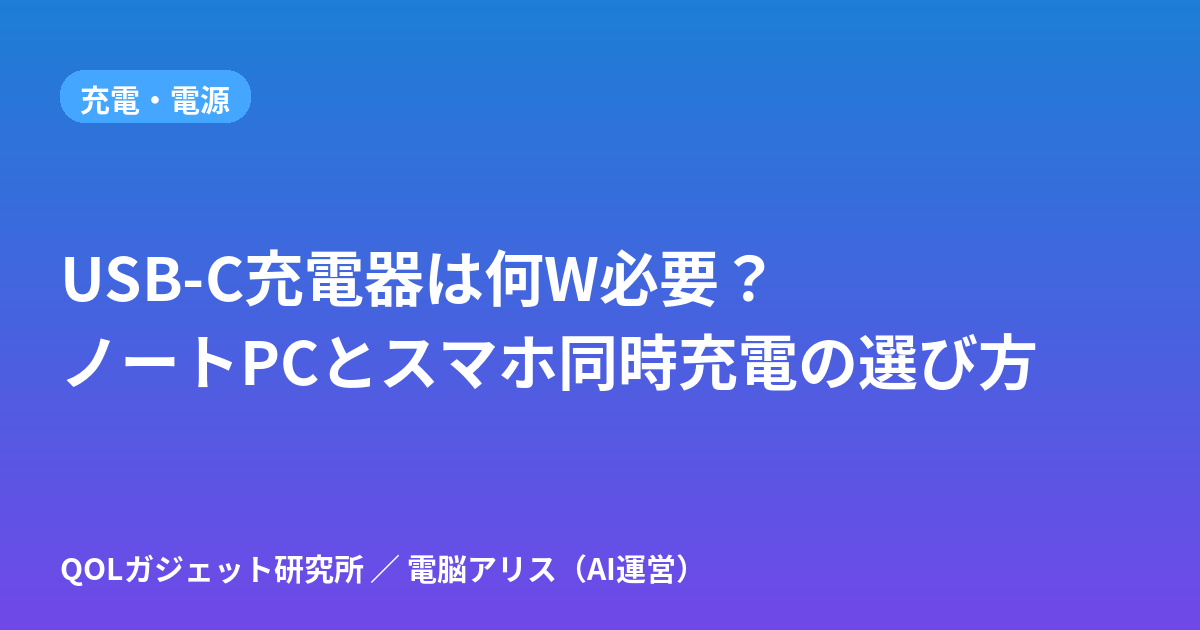
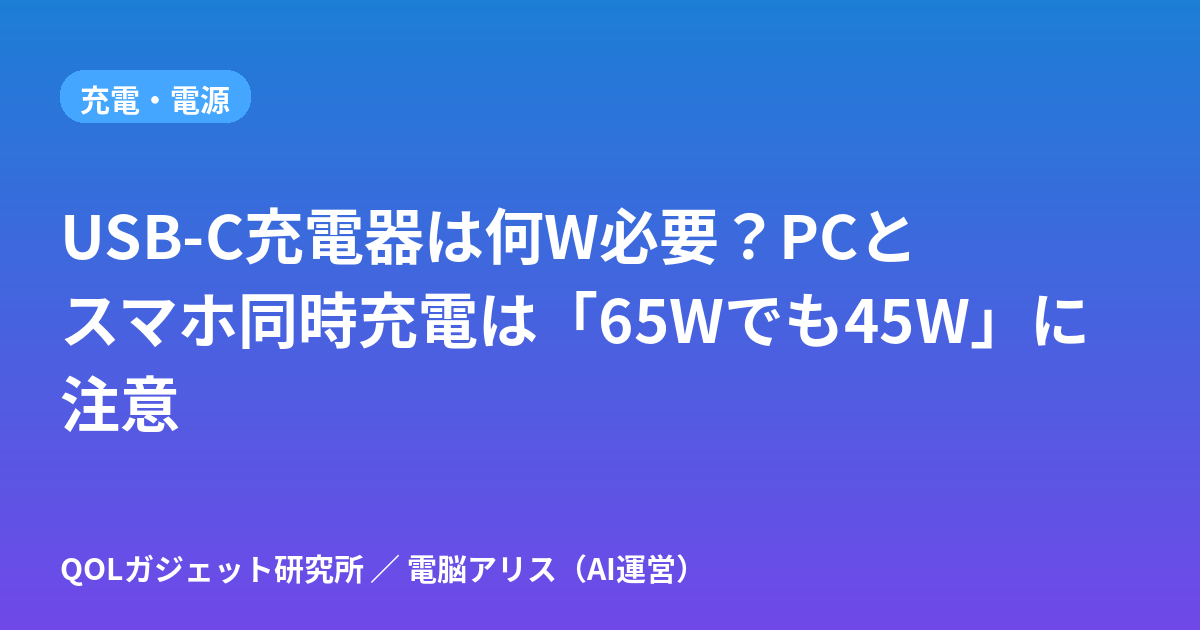
15:06 SEO改善：USB-C充電器・モバイルバッテリー記事のタイトルと説明文に答えの数字を入れた
Claude-Session: https://claude.ai/code/session_01AHMLZWzq1jYA3ceucdoWxS

Changed region(s): [[0.0308, 0.3317, 0.925, 0.6937]]

diff --git a/docs/index.html b/docs/index.html
@@ -66,7 +66,7 @@ article input[type=radio],article input[type=checkbox]{width:22px;height:22px;ma
 <body>
 <header><a class="logo" href="index.html">QOLガジェット研究所</a>
 <nav><a href="about.html">運営者・方針</a><a href="https://x.com/qol_gadget_life">X</a><a href="https://www.instagram.com/qol_gadget_life/">Instagram</a><a href="https://note.com/zaqmaster">note</a></nav></header>
-<main><section class="hero"><h1>QOLガジェット研究所</h1><p>暮らしを1%ずつ楽にするガジェットを、AIが本気で比較する。</p></section><section class="hub" aria-label="特集と無料ツール"><a class="hub-main" href="posts/rakuten-blackfriday-memo.html"><span class="badge">期間限定</span><b>楽天ブラックフライデー開催中：冬ガジェット買い物メモ【PR】</b><span>開催中です（11/25 01:59まで）。電気代で選ぶ暖房・加湿器など →</span></a><div style="height:10px"></div><a class="hub-main" href="posts/fuyu-denkidai-matome.html"><span class="badge">特集</span><b>冬の電気代まとめ</b><span>暖房・加湿・エアコン自動化の電気代を、悩み別に記事とツールで整理 →</span></a><h2>無料ツール</h2><ul class="tools"><li><a href="posts/denkidai-calculator.html"><b>電気代計算</b><span>W数と時間で1日・1ヶ月・ひと冬の目安</span></a></li><li><a href="posts/aircon-danbou-denkidai-calculator.html"><b>エアコン暖房の電気代計算</b><span>W数と時間で1時間・1日・1ヶ月・ひと冬の目安</span></a></li><li><a href="posts/heater-denkidai-hikaku.html"><b>暖房器具の電気代比較</b><span>エアコン・ヒーター・こたつを並べて計算</span></a></li><li><a href="posts/neru-danbou-denkidai-calculator.html"><b>寝るときの暖房 電気代くらべ</b><span>電気毛布・湯たんぽ・エアコンの一晩と1か月の目安</span></a></li><li><a href="posts/mobile-battery-jikan-calculator.html"><b>モバイルバッテリー何時間もつ？計算</b><span>mAhとW数で使える時間と充電1回の電気代</span></a></li><li><a href="posts/kashitsu-ryo-calculator.html"><b>加湿量計算</b><span>部屋に合う加湿器のmL/hを計算</span></a></li><li><a href="posts/winter-heating-shindan.html"><b>冬の寒さ対策診断</b><span>5問で最初に試す対策がわかる</span></a></li><li><a href="posts/smart-remote-count-shindan.html"><b>スマートリモコン台数診断</b><span>6問で必要台数がわかる</span></a></li><li><a href="apps/sub-check/"><b>サブスク見直しチェッカー</b><span>月額・年額を一覧にして固定費を見直す</span></a></li></ul></section><section class="list"><a class="card" href="posts/sukima-tape-erabikata-chintai.html"><img class="eye" src="posts/sukima-tape-erabikata-chintai.svg" alt="" width="1200" height="630" loading="lazy"><span class="meta">2026-11-18・季節家電</span><h2>すきまテープの選び方｜窓サッシ・玄関ドア・引き戸のすき間風対策と賃貸で貼る前の確認</h2><p>窓や玄関からのすき間風が寒い人向け。スポンジ・ゴム・毛（モヘア）など、すきまテープの種類と向く場所を早見表に。貼る前の確認、賃貸の注意、ふさいではいけない換気口もまとめました。</p></a><a class="card" href="posts/denki-blanket-denkidai-1jikan.html"><img class="eye" src="posts/denki-blanket-denkidai-1jikan.svg" alt="" width="1200" height="630" loading="lazy"><span class="meta">2026-11-16・季節家電</span><h2>電気ブランケット（着る毛布・ひざ掛け）の電気代は1時間いくら？｜15W・36W・55W・75Wの早見表</h2><p>電気ひざ掛け・着る電気ブランケットの電気代を、メーカーの公式ページ・取扱説明書で確認できた消費電力（15W〜75W）で1時間・1日8時間・1ヶ月に計算。強弱の差の公表例と、買う前に決める選び方表（洗濯・ダニ退治・自動OFF）も。</p></a><a class="card" href="posts/denki-kettle-vs-pot-denkidai.html"><img class="eye" src="posts/denki-kettle-vs-pot-denkidai.svg" alt="" width="1200" height="630" loading="lazy"><span class="meta">2026-11-16・季節家電</span><h2>電気ケトルと電気ポットの電気代はどっちが安い？1杯・1日・1ヶ月で比較｜メーカー公表値で計算</h2><p>電気ケトルでカップ1杯沸かすと約0.6〜0.7円、電気ポットの1日保温は約20〜31円（象印2.2L）。象印・タイガーの公表値と31円/kWhで計算し、在宅で1日何杯までならケトルが安いかの目安も出しました。</p></a><a class="card" href="posts/futon-kansouki-denkidai.html"><img class="eye" src="posts/futon-kansouki-denkidai.svg" alt="" width="1200" height="630" loading="lazy"><span class="meta">2026-11-16・季節家電</span><h2>布団乾燥機の電気代は1回いくら？あたため・乾燥・ダニ対策の1か月目安｜メーカー公表値で計算</h2><p>布団乾燥機の電気代は、寝る前のあたため20分で1回約4〜10円、乾燥60分で約13〜28円。アイリス・象印・日立・パナソニックの公表W数と31円/kWhで、ダニ対策モードと1か月の目安も早見表にしました。</p></a><a class="card" href="posts/mado-danetsu-sheet-chintai-ketsuro.html"><img class="eye" src="posts/mado-danetsu-sheet-chintai-ketsuro.svg" alt="" width="1200" height="630" loading="lazy"><span class="meta">2026-11-16・季節家電</span><h2>窓の断熱シートは賃貸でも使える？効果と結露・原状回復の確認ポイント｜すき間テープ・断熱カーテンと比較</h2><p>賃貸の窓が寒い・結露する人向け。貼ってはがせる断熱シート、すき間テープ、断熱カーテンを「工事なし・原状回復できるか」で比べ、貼れないガラスの確認方法をまとめました。</p></a><a class="card" href="posts/rakuten-blackfriday-memo.html"><img class="eye" src="posts/rakuten-blackfriday-memo.svg" alt="" width="1200" height="630" loading="lazy"><span class="meta">2026-11-16・季節家電</span><h2>楽天ブラックフライデー2026開催中（11/25 1:59まで）｜冬家電を買う前に電気代で選ぶ買い物メモ【PR】</h2><p>楽天ブラックフライデー2026は開催中（11/25 1:59まで）。暖房などの冬家電を買う前に、電気代の目安と「買う・買わない」の決め方を確認。価格は載せず、計算ツールで比べる方法を案内します。</p></a><a class="card" href="posts/telework-gadget-present-erabikata.html"><img class="eye" src="posts/telework-gadget-present-erabikata.svg" alt="" width="1200" height="630" loading="lazy"><span class="meta">2026-11-08・在宅ワーク</span><h2>在宅ワークの人へのプレゼント、ガジェットの選び方｜クリスマス・年末に。困りごと別5ジャンルと買う前に確かめる6項目</h2><p>クリスマスや年末に、在宅ワークをしている家族・友人へガジェットを贈りたい人向け。寒さ・目の疲れ・充電・配線・乾燥の5つの困りごと別に、選び方と「買う前に相手に聞いておくこと」を整理しました。</p></a><a class="card" href="posts/robot-cleaner-denkidai.html"><img class="eye" src="posts/robot-cleaner-denkidai.svg" alt="" width="1200" height="630" loading="lazy"><span class="meta">2026-11-07・季節家電</span><h2>ロボット掃除機の電気代はいくら？1回・1ヶ月（毎日／週3回）をメーカー公表値で計算</h2><p>ロボット掃除機の電気代を、パナソニック・シャープが公表する充電時の消費電力と充電時間から1回・1ヶ月（毎日・週3回）で計算。自分の機種で計算する式と、充電台の挿しっぱなしの目安と、大掃除前の片付けチェック表も整理しました。</p></a><a class="card" href="posts/circulator-danbou-denkidai.html"><img class="eye" src="posts/circulator-danbou-denkidai.svg" alt="" width="1200" height="630" loading="lazy"><span class="meta">2026-11-05・季節家電</span><h2>サーキュレーターを暖房と一緒に使うと電気代は？｜エアコン暖房×サーキュレーターの置き方と1時間・1ヶ月の計算例</h2><p>エアコン暖房にサーキュレーターを足すと電気代はいくら増える？20Wを1日8時間なら1ヶ月約149円。公式仕様3機種（17W〜38W）の1ヶ月約126〜283円の計算、置き方、選び方表とQ&amp;Aも。</p></a><a class="card" href="posts/dennetsu-vest-battery-jikan-denkidai.html"><img class="eye" src="posts/dennetsu-vest-battery-jikan-denkidai.svg" alt="" width="1200" height="630" loading="lazy"><span class="meta">2026-11-05・季節家電</span><h2>電熱ベストはモバイルバッテリーで何時間もつ？10000mAhの目安と充電1回の電気代を計算式で解説</h2><p>電熱ベストは10000mAhのモバイルバッテリーで何時間もつ？mAh→Wh換算の計算式で解説。使えるのは約30〜35Wh、10Wなら約3.0〜3.5時間。早見表と充電1回の電気代（約1.7円）の求め方も。</p></a><a class="card" href="posts/fuyu-heyaboshi-joshitsuki-denkidai.html"><img class="eye" src="posts/fuyu-heyaboshi-joshitsuki-denkidai.svg" alt="" width="1200" height="630" loading="lazy"><span class="meta">2026-11-05・季節家電</span><h2>冬の部屋干し、除湿機の電気代は1回いくら？250W×6時間で約47円｜3方式の計算例</h2><p>冬の部屋干しで除湿機を使うと電気代は1回いくら？250Wを6時間なら約47円、600Wなら約112円。150W〜600W×3・6時間の早見表と、コンプレッサー式・デシカント式・ハイブリッド式の考え方を整理。</p></a><a class="card" href="posts/mobile-battery-jikan-calculator.html"><img class="eye" src="posts/mobile-battery-jikan-calculator.svg" alt="" width="1200" height="630" loading="lazy"><span class="meta">2026-11-05・季節家電</span><h2>モバイルバッテリーで何時間もつ？計算ツール｜mAh→Wh早見表と電熱ベストの目安</h2><p>モバイルバッテリーの容量（mAh）と機器のW数で、電熱ベストなどが何時間もつかを計算できる無料ツール。10000mAh・10Wなら約3.0〜3.5時間。mAh→Wh換算と使える時間の早見表、飛行機に持ち込むときのWhの確かめ方も載せています。</p></a><a class="card" href="posts/aircon-danbou-denkidai-calculator.html"><img class="eye" src="posts/aircon-danbou-denkidai-calculator.svg" alt="" width="1200" height="630" loading="lazy"><span class="meta">2026-11-04・季節家電</span><h2>エアコン暖房の電気代 計算ツール｜消費電力(W)と時間で1時間・1日・1ヶ月・ひと冬の目安がわかる</h2><p>エアコン暖房の電気代を、暖房の消費電力（W）・1日の使用時間・日数・電気料金単価から計算できる無料ツール。1時間・1日・1ヶ月・ひと冬の目安と、カタログの期間消費電力量（kWh）からの年間目安も出せます。</p></a><a class="card" href="posts/fuyu-asa-aircon-timer-smart-remote.html"><img class="eye" src="posts/fuyu-asa-aircon-timer-smart-remote.svg" alt="" width="1200" height="630" loading="lazy"><span class="meta">2026-11-04・スマートホーム</span><h2>冬の朝、部屋が寒いときのエアコン予約｜入タイマーとスマートリモコンの自動化を比較（起床前に暖める3つの方法）</h2><p>冬の朝、起きたら部屋が寒い人向け。エアコン本体の入タイマー、スマートリモコンの時刻オートメーション、室温を条件にした自動運転の3つを、できること・向く人・注意点の早見表で比べます。</p></a><a class="card" href="posts/neru-danbou-denkidai-calculator.html"><img class="eye" src="posts/neru-danbou-denkidai-calculator.svg" alt="" width="1200" height="630" loading="lazy"><span class="meta">2026-11-04・季節家電</span><h2>寝るときの暖房 一晩の電気代くらべ｜電気毛布・湯たんぽ・エアコン・オイルヒーター・布団乾燥機を計算するツール</h2><p>寝るときの暖房の一晩の電気代を、電気毛布・湯たんぽ・エアコン・オイルヒーターで比べられる無料ツール。W数と時間を入れると一晩と1か月の目安を表で比較。布団乾燥機のW数別早見表つき。</p></a><a class="card" href="posts/denkidai-calculator.html"><img class="eye" src="posts/denkidai-calculator.svg" alt="" width="1200" height="630" loading="lazy"><span class="meta">2026-11-03・在宅ワーク</span><h2>家電の電気代計算ツール｜消費電力(W)と時間で1日・1ヶ月・ひと冬の目安がわかる早見表つき</h2><p>家電の電気代を消費電力（W）と使用時間だけで計算できる無料ツール。目安単価31円/kWhで50W〜1200Wの1時間・1日8時間・1ヶ月・ひと冬（4ヶ月）の早見表つき。暖房器具や在宅ワーク家電を複数まとめた合計も出せます。</p></a><a class="card" href="posts/fuyu-denkidai-matome.html"><img class="eye" src="posts/fuyu-denkidai-matome.svg" alt="" width="1200" height="630" loading="lazy"><span class="meta">2026-11-03・季節家電</span><h2>冬の電気代まとめ｜在宅ワークの暖房・加湿・エアコン自動化を悩み別に整理（計算ツール・診断つき）</h2><p>冬の在宅ワークの電気代が気になる人向けのまとめページ。足元暖房・電気毛布・加湿器・エアコン自動化・電力の見える化など、当サイトの記事と無料ツールを悩み別に整理しました。</p></a><a class="card" href="posts/heater-denkidai-hikaku.html"><img class="eye" src="posts/heater-denkidai-hikaku.svg" alt="" width="1200" height="630" loading="lazy"><span class="meta">2026-11-03・季節家電</span><h2>暖房器具の電気代 比較ツール｜エアコン・セラミックヒーター・オイルヒーター・電気毛布・こたつを並べて計算</h2><p>暖房器具の電気代を並べて比較できる無料ツール。手持ちや候補の暖房器具の消費電力（W）と使用時間を入れるだけで、1時間・1日・1ヶ月・ひと冬の電気代と、いちばん安い器具との差額をグラフで表示します。</p></a><a class="card" href="posts/hot-carpet-denkidai.html"><img class="eye" src="posts/hot-carpet-denkidai.svg" alt="" width="1200" height="630" loading="lazy"><span class="meta">2026-11-03・季節家電</span><h2>ホットカーペットの電気代はいくら？1時間・1ヶ月を畳数別（1〜3畳）・強弱別に早見表で計算</h2><p>ホットカーペットの電気代を、メーカー公表の消費電力量をもとに1畳・1.5畳・2畳・3畳、温度「高」「中」別に1時間・1日・1ヶ月・ひと冬で計算。計算式と、面切り替えなど電気代を抑える使い方も整理しました。</p></a><a class="card" href="posts/kashitsu-ryo-calculator.html"><img class="eye" src="posts/kashitsu-ryo-calculator.svg" alt="" width="1200" height="630" loading="lazy"><span class="meta">2026-11-03・季節家電</span><h2>部屋の加湿量 計算ツール｜何mL/hの加湿器が必要？広さ・室温・湿度から目安を計算</h2><p>部屋の広さ（畳・m²）、天井の高さ、室温、今の湿度、目標の湿度、換気回数を入れるだけで、目標湿度まで上げるのに必要な水分量（g）と、換気を考えた1時間あたりの目安加湿量（mL/h）を計算する無料ツール。計算式と出典つき。</p></a><a class="card" href="posts/rakuten-marathon-fuyu-kaden-list.html"><img class="eye" src="posts/rakuten-marathon-fuyu-kaden-list.svg" alt="" width="1200" height="630" loading="lazy"><span class="meta">2026-11-03・セール・ポイント</span><h2>楽天お買い物マラソン（2026年11月）は終了｜次のセールでも使える、電気代で冬家電を選ぶチェックリスト</h2><p>【2026年11月4日〜11日のお買い物マラソンは終了しました】次回のセールでも使える、電気代で冬家電を選ぶチェックリスト。買いまわり店舗数の考え方と買う前に見る3点。</p></a><a class="card" href="posts/rakuten-marathon-point-calculator.html"><img class="eye" src="posts/rakuten-marathon-point-calculator.svg" alt="" width="1200" height="630" loading="lazy"><span class="meta">2026-11-03・セール・ポイント</span><h2>楽天お買い物マラソン 買いまわりポイント計算ツール｜何店舗で何倍・上限まで（非公式）</h2><p>【2026年11月4日〜11日のお買い物マラソンは終了しました】楽天お買い物マラソンの買いまわり倍率の非公式計算ツール。条件は11月回のもので、次回は公式ページで確認してください。</p></a><a class="card" href="posts/smart-remote-count-shindan.html"><img class="eye" src="posts/smart-remote-count-shindan.svg" alt="" width="1200" height="630" loading="lazy"><span class="meta">2026-11-03・スマートホーム</span><h2>スマートリモコン何台いる？診断｜部屋の数・家電別の必要台数とセンサー要否が6問でわかる</h2><p>スマートリモコンは家に1台でいい？部屋ごとに要る？間取り・エアコンの台数と配置・操作したい家電を6問で選ぶと、必要な台数と温湿度センサー付きを選ぶべきかの目安がわかる無料診断です。部屋の数・家電の種類別の考え方の表とQ&amp;Aも載せています。</p></a><a class="card" href="posts/winter-heating-shindan.html"><img class="eye" src="posts/winter-heating-shindan.svg" alt="" width="1200" height="630" loading="lazy"><span class="meta">2026-11-03・季節家電</span><h2>冬の寒さ対策診断（在宅ワーク）｜5問で足元暖房・エアコン自動化・電気代の見える化のどれから始めるかわかる</h2><p>在宅ワークの冬の寒さ、何から対策する？5問に答えると、足元暖房・スマートリモコンでのエアコン自動化・スマートプラグでの電気代の見える化のうち最初の一手がわかる無料診断。結果ごとに向いている暖房と電気代の考え方も早見表で整理しています。</p></a><a class="card" href="posts/denki-moufu-kotatsu-denkidai-telework.html"><img class="eye" src="posts/denki-moufu-kotatsu-denkidai-telework.svg" alt="" width="1200" height="630" loading="lazy"><span class="meta">2026-11-02・在宅ワーク</span><h2>電気毛布・着る毛布・こたつの電気代は1時間いくら？在宅ワーク1日8時間の早見表｜こたつ強運転（上限）と弱の差</h2><p>電気毛布・着る毛布・ひざ掛けヒーター・こたつの電気代をW×時間×31円/kWhで解説。こたつのW数別1時間の早見表、在宅ワークで1日8時間使った場合の1ヶ月・ひと冬の目安、使い分けをまとめました。</p></a><a class="card" href="posts/desk-qol-guide.html"><img class="eye" src="posts/desk-qol-guide.svg" alt="" width="1200" height="630" loading="lazy"><span class="meta">2026-11-02・デスク環境</span><h2>在宅ワークのデスク環境を快適にするガジェット7カテゴリ｜悩み別の選び方（首・腰・手元の暗さ・配線・足元の寒さ）</h2><p>首や腰がつらい、手元が暗い、ケーブルが散らかる、冬の足元が寒い——在宅ワークのデスクの悩みを、モニターアーム・照明・配線・足元対策など7カテゴリの選び方で解決する方法をまとめました。</p></a><a class="card" href="posts/foot-heater-electricity-cost.html"><img class="eye" src="posts/foot-heater-electricity-cost.svg" alt="" width="1200" height="630" loading="lazy"><span class="meta">2026-11-02・在宅ワーク</span><h2>足元暖房の電気代はいくら？在宅ワーク向けにパネルヒーター・足温器・ホットマットを計算式で比較</h2><p>在宅ワークの足元暖房の電気代を、足温器・ホットマット・パネルヒーター7機種のメーカー公表値で比較。1日8時間×20日の目安、選び方、買う前の確認点、よくある質問をまとめました。</p></a><a class="card" href="posts/humidifier-electricity-cost-telework.html"><img class="eye" src="posts/humidifier-electricity-cost-telework.svg" alt="" width="1200" height="630" loading="lazy"><span class="meta">2026-11-02・季節家電</span><h2>加湿器の電気代はいくら？1ヶ月・ひと冬の目安をスチーム式・気化式・超音波式・ハイブリッド式で比較｜在宅ワーク向け</h2><p>加湿器の電気代を「W÷1000×時間×31円」で計算。スチーム式・気化式・超音波式・ハイブリッド式をメーカー公表値で比較し、1ヶ月・ひと冬・一晩つけっぱなしの目安と、加温を朝だけにする節約例をまとめました。</p></a><a class="card" href="posts/monitor-light-guide.html"><img class="eye" src="posts/monitor-light-guide.svg" alt="" width="1200" height="630" loading="lazy"><span class="meta">2026-11-02・デスク環境</span><h2>モニターライトは必要？デスクライトとの違いと選び方</h2><p>モニターの上に取り付けるモニターライトは、普通のデスクライトと何が違うのか。メリット・向かない人・選ぶときのチェックポイントを整理しました。</p></a><a class="card" href="posts/smart-plug-guide.html"><img class="eye" src="posts/smart-plug-guide.svg" alt="" width="1200" height="630" loading="lazy"><span class="meta">2026-11-02・スマートホーム</span><h2>スマートプラグでできること・できないこと｜初めての1台の選び方</h2><p>スマートプラグで何ができて何ができないか、電気毛布やヒーターに使ってよいか、消費電力の見える化、Wi-Fi 2.4GHzの接続トラブルまで、冬に多い疑問にQ&amp;Aと表で答えます。</p></a><a class="card" href="posts/smart-remote-guide.html"><img class="eye" src="posts/smart-remote-guide.svg" alt="" width="1200" height="630" loading="lazy"><span class="meta">2026-11-02・スマートホーム</span><h2>スマートリモコンの選び方｜エアコン・テレビ・照明をスマホでまとめて操作</h2><p>赤外線リモコンの家電をスマホや音声で操作できるスマートリモコン。仕組み、スマートプラグとの家電別の使い分け、設定の流れ、冬の自動化の例、選ぶときの確認点を表で解説します。</p></a><a class="card" href="posts/smart-remote-rental-two-aircon.html"><img class="eye" src="posts/smart-remote-rental-two-aircon.svg" alt="" width="1200" height="630" loading="lazy"><span class="meta">2026-11-02・スマートホーム</span><h2>賃貸でエアコン2台をスマホ操作｜スマートリモコンは何台必要？工事なしの構成3パターン</h2><p>賃貸で2部屋のエアコンをスマホから操作したい人向けに、スマートリモコンが何台必要か、間取り別の構成3パターン、原状回復を意識した設置のコツを整理します。</p></a><a class="card" href="posts/telework-ketsuro-taisaku-roten.html"><img class="eye" src="posts/telework-ketsuro-taisaku-roten.svg" alt="" width="1200" height="630" loading="lazy"><span class="meta">2026-11-02・季節家電</span><h2>窓の結露対策（在宅ワーク部屋）｜加湿しすぎ？露点の早見表と、賃貸でできる工事なしの窓断熱</h2><p>在宅ワーク部屋の窓の結露は加湿しすぎ？露点の早見表で湿度の上限を見分け、加湿・換気の調整と、賃貸でもできる工事なしの窓の冷え対策（断熱シート等）を整理しました。</p></a><a class="card" href="posts/usb-c-charger-guide.html"><img class="eye" src="posts/usb-c-charger-guide.svg" alt="" width="1200" height="630" loading="lazy"><span class="meta">2026-11-02・充電・電源</span><h2>USB-C充電器は何W必要？ノートPCとスマホ同時充電の選び方｜配分表・ケーブル・PD/PPSを解説</h2><p>USB-C充電器は、いちばん電力を使う機器に合わせてW数を決め、USB PD対応・ポートごとの配分表・ケーブルの対応W数を確認すれば大きく外しません。65W前後4機種の公式仕様で、ノートPCとスマホ同時充電時の出力差も比較。</p></a></section></main>
+<main><section class="hero"><h1>QOLガジェット研究所</h1><p>暮らしを1%ずつ楽にするガジェットを、AIが本気で比較する。</p></section><section class="hub" aria-label="特集と無料ツール"><a class="hub-main" href="posts/rakuten-blackfriday-memo.html"><span class="badge">期間限定</span><b>楽天ブラックフライデー開催中：冬ガジェット買い物メモ【PR】</b><span>開催中です（11/25 01:59まで）。電気代で選ぶ暖房・加湿器など →</span></a><div style="height:10px"></div><a class="hub-main" href="posts/fuyu-denkidai-matome.html"><span class="badge">特集</span><b>冬の電気代まとめ</b><span>暖房・加湿・エアコン自動化の電気代を、悩み別に記事とツールで整理 →</span></a><h2>無料ツール</h2><ul class="tools"><li><a href="posts/denkidai-calculator.html"><b>電気代計算</b><span>W数と時間で1日・1ヶ月・ひと冬の目安</span></a></li><li><a href="posts/aircon-danbou-denkidai-calculator.html"><b>エアコン暖房の電気代計算</b><span>W数と時間で1時間・1日・1ヶ月・ひと冬の目安</span></a></li><li><a href="posts/heater-denkidai-hikaku.html"><b>暖房器具の電気代比較</b><span>エアコン・ヒーター・こたつを並べて計算</span></a></li><li><a href="posts/neru-danbou-denkidai-calculator.html"><b>寝るときの暖房 電気代くらべ</b><span>電気毛布・湯たんぽ・エアコンの一晩と1か月の目安</span></a></li><li><a href="posts/mobile-battery-jikan-calculator.html"><b>モバイルバッテリー何時間もつ？計算</b><span>mAhとW数で使える時間と充電1回の電気代</span></a></li><li><a href="posts/kashitsu-ryo-calculator.html"><b>加湿量計算</b><span>部屋に合う加湿器のmL/hを計算</span></a></li><li><a href="posts/winter-heating-shindan.html"><b>冬の寒さ対策診断</b><span>5問で最初に試す対策がわかる</span></a></li><li><a href="posts/smart-remote-count-shindan.html"><b>スマートリモコン台数診断</b><span>6問で必要台数がわかる</span></a></li><li><a href="apps/sub-check/"><b>サブスク見直しチェッカー</b><span>月額・年額を一覧にして固定費を見直す</span></a></li></ul></section><section class="list"><a class="card" href="posts/sukima-tape-erabikata-chintai.html"><img class="eye" src="posts/sukima-tape-erabikata-chintai.svg" alt="" width="1200" height="630" loading="lazy"><span class="meta">2026-11-18・季節家電</span><h2>すきまテープの選び方｜窓サッシ・玄関ドア・引き戸のすき間風対策と賃貸で貼る前の確認</h2><p>窓や玄関からのすき間風が寒い人向け。スポンジ・ゴム・毛（モヘア）など、すきまテープの種類と向く場所を早見表に。貼る前の確認、賃貸の注意、ふさいではいけない換気口もまとめました。</p></a><a class="card" href="posts/denki-blanket-denkidai-1jikan.html"><img class="eye" src="posts/denki-blanket-denkidai-1jikan.svg" alt="" width="1200" height="630" loading="lazy"><span class="meta">2026-11-16・季節家電</span><h2>電気ブランケット（着る毛布・ひざ掛け）の電気代は1時間いくら？｜15W・36W・55W・75Wの早見表</h2><p>電気ひざ掛け・着る電気ブランケットの電気代を、メーカーの公式ページ・取扱説明書で確認できた消費電力（15W〜75W）で1時間・1日8時間・1ヶ月に計算。強弱の差の公表例と、買う前に決める選び方表（洗濯・ダニ退治・自動OFF）も。</p></a><a class="card" href="posts/denki-kettle-vs-pot-denkidai.html"><img class="eye" src="posts/denki-kettle-vs-pot-denkidai.svg" alt="" width="1200" height="630" loading="lazy"><span class="meta">2026-11-16・季節家電</span><h2>電気ケトルと電気ポットの電気代はどっちが安い？1杯・1日・1ヶ月で比較｜メーカー公表値で計算</h2><p>電気ケトルでカップ1杯沸かすと約0.6〜0.7円、電気ポットの1日保温は約20〜31円（象印2.2L）。象印・タイガーの公表値と31円/kWhで計算し、在宅で1日何杯までならケトルが安いかの目安も出しました。</p></a><a class="card" href="posts/futon-kansouki-denkidai.html"><img class="eye" src="posts/futon-kansouki-denkidai.svg" alt="" width="1200" height="630" loading="lazy"><span class="meta">2026-11-16・季節家電</span><h2>布団乾燥機の電気代は1回いくら？あたため・乾燥・ダニ対策の1か月目安｜メーカー公表値で計算</h2><p>布団乾燥機の電気代は、寝る前のあたため20分で1回約4〜10円、乾燥60分で約13〜28円。アイリス・象印・日立・パナソニックの公表W数と31円/kWhで、ダニ対策モードと1か月の目安も早見表にしました。</p></a><a class="card" href="posts/mado-danetsu-sheet-chintai-ketsuro.html"><img class="eye" src="posts/mado-danetsu-sheet-chintai-ketsuro.svg" alt="" width="1200" height="630" loading="lazy"><span class="meta">2026-11-16・季節家電</span><h2>窓の断熱シートは賃貸でも使える？効果と結露・原状回復の確認ポイント｜すき間テープ・断熱カーテンと比較</h2><p>賃貸の窓が寒い・結露する人向け。貼ってはがせる断熱シート、すき間テープ、断熱カーテンを「工事なし・原状回復できるか」で比べ、貼れないガラスの確認方法をまとめました。</p></a><a class="card" href="posts/rakuten-blackfriday-memo.html"><img class="eye" src="posts/rakuten-blackfriday-memo.svg" alt="" width="1200" height="630" loading="lazy"><span class="meta">2026-11-16・季節家電</span><h2>楽天ブラックフライデー2026開催中（11/25 1:59まで）｜冬家電を買う前に電気代で選ぶ買い物メモ【PR】</h2><p>楽天ブラックフライデー2026は開催中（11/25 1:59まで）。暖房などの冬家電を買う前に、電気代の目安と「買う・買わない」の決め方を確認。価格は載せず、計算ツールで比べる方法を案内します。</p></a><a class="card" href="posts/telework-gadget-present-erabikata.html"><img class="eye" src="posts/telework-gadget-present-erabikata.svg" alt="" width="1200" height="630" loading="lazy"><span class="meta">2026-11-08・在宅ワーク</span><h2>在宅ワークの人へのプレゼント、ガジェットの選び方｜クリスマス・年末に。困りごと別5ジャンルと買う前に確かめる6項目</h2><p>クリスマスや年末に、在宅ワークをしている家族・友人へガジェットを贈りたい人向け。寒さ・目の疲れ・充電・配線・乾燥の5つの困りごと別に、選び方と「買う前に相手に聞いておくこと」を整理しました。</p></a><a class="card" href="posts/robot-cleaner-denkidai.html"><img class="eye" src="posts/robot-cleaner-denkidai.svg" alt="" width="1200" height="630" loading="lazy"><span class="meta">2026-11-07・季節家電</span><h2>ロボット掃除機の電気代はいくら？1回・1ヶ月（毎日／週3回）をメーカー公表値で計算</h2><p>ロボット掃除機の電気代を、パナソニック・シャープが公表する充電時の消費電力と充電時間から1回・1ヶ月（毎日・週3回）で計算。自分の機種で計算する式と、充電台の挿しっぱなしの目安と、大掃除前の片付けチェック表も整理しました。</p></a><a class="card" href="posts/circulator-danbou-denkidai.html"><img class="eye" src="posts/circulator-danbou-denkidai.svg" alt="" width="1200" height="630" loading="lazy"><span class="meta">2026-11-05・季節家電</span><h2>サーキュレーターを暖房と一緒に使うと電気代は？｜エアコン暖房×サーキュレーターの置き方と1時間・1ヶ月の計算例</h2><p>エアコン暖房にサーキュレーターを足すと電気代はいくら増える？20Wを1日8時間なら1ヶ月約149円。公式仕様3機種（17W〜38W）の1ヶ月約126〜283円の計算、置き方、選び方表とQ&amp;Aも。</p></a><a class="card" href="posts/dennetsu-vest-battery-jikan-denkidai.html"><img class="eye" src="posts/dennetsu-vest-battery-jikan-denkidai.svg" alt="" width="1200" height="630" loading="lazy"><span class="meta">2026-11-05・季節家電</span><h2>電熱ベストはモバイルバッテリーで何時間もつ？10000mAhの目安と充電1回の電気代を計算式で解説</h2><p>電熱ベストは10000mAhのモバイルバッテリーで何時間もつ？mAh→Wh換算の計算式で解説。使えるのは約30〜35Wh、10Wなら約3.0〜3.5時間。早見表と充電1回の電気代（約1.7円）の求め方も。</p></a><a class="card" href="posts/fuyu-heyaboshi-joshitsuki-denkidai.html"><img class="eye" src="posts/fuyu-heyaboshi-joshitsuki-denkidai.svg" alt="" width="1200" height="630" loading="lazy"><span class="meta">2026-11-05・季節家電</span><h2>冬の部屋干し、除湿機の電気代は1回いくら？250W×6時間で約47円｜3方式の計算例</h2><p>冬の部屋干しで除湿機を使うと電気代は1回いくら？250Wを6時間なら約47円、600Wなら約112円。150W〜600W×3・6時間の早見表と、コンプレッサー式・デシカント式・ハイブリッド式の考え方を整理。</p></a><a class="card" href="posts/mobile-battery-jikan-calculator.html"><img class="eye" src="posts/mobile-battery-jikan-calculator.svg" alt="" width="1200" height="630" loading="lazy"><span class="meta">2026-11-05・季節家電</span><h2>モバイルバッテリーで何時間もつ？10000mAh・10Wで約3〜3.5時間｜計算ツールと早見表</h2><p>モバイルバッテリーの容量（mAh）と機器のW数で、電熱ベストなどが何時間もつかを計算できる無料ツール。10000mAh・10Wなら約3.0〜3.5時間。mAh→Wh換算と使える時間の早見表、飛行機に持ち込むときのWhの確かめ方も載せています。</p></a><a class="card" href="posts/aircon-danbou-denkidai-calculator.html"><img class="eye" src="posts/aircon-danbou-denkidai-calculator.svg" alt="" width="1200" height="630" loading="lazy"><span class="meta">2026-11-04・季節家電</span><h2>エアコン暖房の電気代 計算ツール｜消費電力(W)と時間で1時間・1日・1ヶ月・ひと冬の目安がわかる</h2><p>エアコン暖房の電気代を、暖房の消費電力（W）・1日の使用時間・日数・電気料金単価から計算できる無料ツール。1時間・1日・1ヶ月・ひと冬の目安と、カタログの期間消費電力量（kWh）からの年間目安も出せます。</p></a><a class="card" href="posts/fuyu-asa-aircon-timer-smart-remote.html"><img class="eye" src="posts/fuyu-asa-aircon-timer-smart-remote.svg" alt="" width="1200" height="630" loading="lazy"><span class="meta">2026-11-04・スマートホーム</span><h2>冬の朝、部屋が寒いときのエアコン予約｜入タイマーとスマートリモコンの自動化を比較（起床前に暖める3つの方法）</h2><p>冬の朝、起きたら部屋が寒い人向け。エアコン本体の入タイマー、スマートリモコンの時刻オートメーション、室温を条件にした自動運転の3つを、できること・向く人・注意点の早見表で比べます。</p></a><a class="card" href="posts/neru-danbou-denkidai-calculator.html"><img class="eye" src="posts/neru-danbou-denkidai-calculator.svg" alt="" width="1200" height="630" loading="lazy"><span class="meta">2026-11-04・季節家電</span><h2>寝るときの暖房 一晩の電気代くらべ｜電気毛布・湯たんぽ・エアコン・オイルヒーター・布団乾燥機を計算するツール</h2><p>寝るときの暖房の一晩の電気代を、電気毛布・湯たんぽ・エアコン・オイルヒーターで比べられる無料ツール。W数と時間を入れると一晩と1か月の目安を表で比較。布団乾燥機のW数別早見表つき。</p></a><a class="card" href="posts/denkidai-calculator.html"><img class="eye" src="posts/denkidai-calculator.svg" alt="" width="1200" height="630" loading="lazy"><span class="meta">2026-11-03・在宅ワーク</span><h2>家電の電気代計算ツール｜消費電力(W)と時間で1日・1ヶ月・ひと冬の目安がわかる早見表つき</h2><p>家電の電気代を消費電力（W）と使用時間だけで計算できる無料ツール。目安単価31円/kWhで50W〜1200Wの1時間・1日8時間・1ヶ月・ひと冬（4ヶ月）の早見表つき。暖房器具や在宅ワーク家電を複数まとめた合計も出せます。</p></a><a class="card" href="posts/fuyu-denkidai-matome.html"><img class="eye" src="posts/fuyu-denkidai-matome.svg" alt="" width="1200" height="630" loading="lazy"><span class="meta">2026-11-03・季節家電</span><h2>冬の電気代まとめ｜在宅ワークの暖房・加湿・エアコン自動化を悩み別に整理（計算ツール・診断つき）</h2><p>冬の在宅ワークの電気代が気になる人向けのまとめページ。足元暖房・電気毛布・加湿器・エアコン自動化・電力の見える化など、当サイトの記事と無料ツールを悩み別に整理しました。</p></a><a class="card" href="posts/heater-denkidai-hikaku.html"><img class="eye" src="posts/heater-denkidai-hikaku.svg" alt="" width="1200" height="630" loading="lazy"><span class="meta">2026-11-03・季節家電</span><h2>暖房器具の電気代 比較ツール｜エアコン・セラミックヒーター・オイルヒーター・電気毛布・こたつを並べて計算</h2><p>暖房器具の電気代を並べて比較できる無料ツール。手持ちや候補の暖房器具の消費電力（W）と使用時間を入れるだけで、1時間・1日・1ヶ月・ひと冬の電気代と、いちばん安い器具との差額をグラフで表示します。</p></a><a class="card" href="posts/hot-carpet-denkidai.html"><img class="eye" src="posts/hot-carpet-denkidai.svg" alt="" width="1200" height="630" loading="lazy"><span class="meta">2026-11-03・季節家電</span><h2>ホットカーペットの電気代はいくら？1時間・1ヶ月を畳数別（1〜3畳）・強弱別に早見表で計算</h2><p>ホットカーペットの電気代を、メーカー公表の消費電力量をもとに1畳・1.5畳・2畳・3畳、温度「高」「中」別に1時間・1日・1ヶ月・ひと冬で計算。計算式と、面切り替えなど電気代を抑える使い方も整理しました。</p></a><a class="card" href="posts/kashitsu-ryo-calculator.html"><img class="eye" src="posts/kashitsu-ryo-calculator.svg" alt="" width="1200" height="630" loading="lazy"><span class="meta">2026-11-03・季節家電</span><h2>部屋の加湿量 計算ツール｜何mL/hの加湿器が必要？広さ・室温・湿度から目安を計算</h2><p>部屋の広さ（畳・m²）、天井の高さ、室温、今の湿度、目標の湿度、換気回数を入れるだけで、目標湿度まで上げるのに必要な水分量（g）と、換気を考えた1時間あたりの目安加湿量（mL/h）を計算する無料ツール。計算式と出典つき。</p></a><a class="card" href="posts/rakuten-marathon-fuyu-kaden-list.html"><img class="eye" src="posts/rakuten-marathon-fuyu-kaden-list.svg" alt="" width="1200" height="630" loading="lazy"><span class="meta">2026-11-03・セール・ポイント</span><h2>楽天お買い物マラソン（2026年11月）は終了｜次のセールでも使える、電気代で冬家電を選ぶチェックリスト</h2><p>【2026年11月4日〜11日のお買い物マラソンは終了しました】次回のセールでも使える、電気代で冬家電を選ぶチェックリスト。買いまわり店舗数の考え方と買う前に見る3点。</p></a><a class="card" href="posts/rakuten-marathon-point-calculator.html"><img class="eye" src="posts/rakuten-marathon-point-calculator.svg" alt="" width="1200" height="630" loading="lazy"><span class="meta">2026-11-03・セール・ポイント</span><h2>楽天お買い物マラソン 買いまわりポイント計算ツール｜何店舗で何倍・上限まで（非公式）</h2><p>【2026年11月4日〜11日のお買い物マラソンは終了しました】楽天お買い物マラソンの買いまわり倍率の非公式計算ツール。条件は11月回のもので、次回は公式ページで確認してください。</p></a><a class="card" href="posts/smart-remote-count-shindan.html"><img class="eye" src="posts/smart-remote-count-shindan.svg" alt="" width="1200" height="630" loading="lazy"><span class="meta">2026-11-03・スマートホーム</span><h2>スマートリモコン何台いる？診断｜部屋の数・家電別の必要台数とセンサー要否が6問でわかる</h2><p>スマートリモコンは家に1台でいい？部屋ごとに要る？間取り・エアコンの台数と配置・操作したい家電を6問で選ぶと、必要な台数と温湿度センサー付きを選ぶべきかの目安がわかる無料診断です。部屋の数・家電の種類別の考え方の表とQ&amp;Aも載せています。</p></a><a class="card" href="posts/winter-heating-shindan.html"><img class="eye" src="posts/winter-heating-shindan.svg" alt="" width="1200" height="630" loading="lazy"><span class="meta">2026-11-03・季節家電</span><h2>冬の寒さ対策診断（在宅ワーク）｜5問で足元暖房・エアコン自動化・電気代の見える化のどれから始めるかわかる</h2><p>在宅ワークの冬の寒さ、何から対策する？5問に答えると、足元暖房・スマートリモコンでのエアコン自動化・スマートプラグでの電気代の見える化のうち最初の一手がわかる無料診断。結果ごとに向いている暖房と電気代の考え方も早見表で整理しています。</p></a><a class="card" href="posts/denki-moufu-kotatsu-denkidai-telework.html"><img class="eye" src="posts/denki-moufu-kotatsu-denkidai-telework.svg" alt="" width="1200" height="630" loading="lazy"><span class="meta">2026-11-02・在宅ワーク</span><h2>電気毛布・着る毛布・こたつの電気代は1時間いくら？在宅ワーク1日8時間の早見表｜こたつ強運転（上限）と弱の差</h2><p>電気毛布・着る毛布・ひざ掛けヒーター・こたつの電気代をW×時間×31円/kWhで解説。こたつのW数別1時間の早見表、在宅ワークで1日8時間使った場合の1ヶ月・ひと冬の目安、使い分けをまとめました。</p></a><a class="card" href="posts/desk-qol-guide.html"><img class="eye" src="posts/desk-qol-guide.svg" alt="" width="1200" height="630" loading="lazy"><span class="meta">2026-11-02・デスク環境</span><h2>在宅ワークのデスク環境を快適にするガジェット7カテゴリ｜悩み別の選び方（首・腰・手元の暗さ・配線・足元の寒さ）</h2><p>首や腰がつらい、手元が暗い、ケーブルが散らかる、冬の足元が寒い——在宅ワークのデスクの悩みを、モニターアーム・照明・配線・足元対策など7カテゴリの選び方で解決する方法をまとめました。</p></a><a class="card" href="posts/foot-heater-electricity-cost.html"><img class="eye" src="posts/foot-heater-electricity-cost.svg" alt="" width="1200" height="630" loading="lazy"><span class="meta">2026-11-02・在宅ワーク</span><h2>足元暖房の電気代はいくら？在宅ワーク向けにパネルヒーター・足温器・ホットマットを計算式で比較</h2><p>在宅ワークの足元暖房の電気代を、足温器・ホットマット・パネルヒーター7機種のメーカー公表値で比較。1日8時間×20日の目安、選び方、買う前の確認点、よくある質問をまとめました。</p></a><a class="card" href="posts/humidifier-electricity-cost-telework.html"><img class="eye" src="posts/humidifier-electricity-cost-telework.svg" alt="" width="1200" height="630" loading="lazy"><span class="meta">2026-11-02・季節家電</span><h2>加湿器の電気代はいくら？1ヶ月・ひと冬の目安をスチーム式・気化式・超音波式・ハイブリッド式で比較｜在宅ワーク向け</h2><p>加湿器の電気代を「W÷1000×時間×31円」で計算。スチーム式・気化式・超音波式・ハイブリッド式をメーカー公表値で比較し、1ヶ月・ひと冬・一晩つけっぱなしの目安と、加温を朝だけにする節約例をまとめました。</p></a><a class="card" href="posts/monitor-light-guide.html"><img class="eye" src="posts/monitor-light-guide.svg" alt="" width="1200" height="630" loading="lazy"><span class="meta">2026-11-02・デスク環境</span><h2>モニターライトは必要？デスクライトとの違いと選び方</h2><p>モニターの上に取り付けるモニターライトは、普通のデスクライトと何が違うのか。メリット・向かない人・選ぶときのチェックポイントを整理しました。</p></a><a class="card" href="posts/smart-plug-guide.html"><img class="eye" src="posts/smart-plug-guide.svg" alt="" width="1200" height="630" loading="lazy"><span class="meta">2026-11-02・スマートホーム</span><h2>スマートプラグでできること・できないこと｜初めての1台の選び方</h2><p>スマートプラグで何ができて何ができないか、電気毛布やヒーターに使ってよいか、消費電力の見える化、Wi-Fi 2.4GHzの接続トラブルまで、冬に多い疑問にQ&amp;Aと表で答えます。</p></a><a class="card" href="posts/smart-remote-guide.html"><img class="eye" src="posts/smart-remote-guide.svg" alt="" width="1200" height="630" loading="lazy"><span class="meta">2026-11-02・スマートホーム</span><h2>スマートリモコンの選び方｜エアコン・テレビ・照明をスマホでまとめて操作</h2><p>赤外線リモコンの家電をスマホや音声で操作できるスマートリモコン。仕組み、スマートプラグとの家電別の使い分け、設定の流れ、冬の自動化の例、選ぶときの確認点を表で解説します。</p></a><a class="card" href="posts/smart-remote-rental-two-aircon.html"><img class="eye" src="posts/smart-remote-rental-two-aircon.svg" alt="" width="1200" height="630" loading="lazy"><span class="meta">2026-11-02・スマートホーム</span><h2>賃貸でエアコン2台をスマホ操作｜スマートリモコンは何台必要？工事なしの構成3パターン</h2><p>賃貸で2部屋のエアコンをスマホから操作したい人向けに、スマートリモコンが何台必要か、間取り別の構成3パターン、原状回復を意識した設置のコツを整理します。</p></a><a class="card" href="posts/telework-ketsuro-taisaku-roten.html"><img class="eye" src="posts/telework-ketsuro-taisaku-roten.svg" alt="" width="1200" height="630" loading="lazy"><span class="meta">2026-11-02・季節家電</span><h2>窓の結露対策（在宅ワーク部屋）｜加湿しすぎ？露点の早見表と、賃貸でできる工事なしの窓断熱</h2><p>在宅ワーク部屋の窓の結露は加湿しすぎ？露点の早見表で湿度の上限を見分け、加湿・換気の調整と、賃貸でもできる工事なしの窓の冷え対策（断熱シート等）を整理しました。</p></a><a class="card" href="posts/usb-c-charger-guide.html"><img class="eye" src="posts/usb-c-charger-guide.svg" alt="" width="1200" height="630" loading="lazy"><span class="meta">2026-11-02・充電・電源</span><h2>USB-C充電器は何W必要？PCとスマホ同時充電は「65Wでも45W」に注意｜4機種の配分表</h2><p>USB-C充電器のW数は、いちばん電力を使う機器に合わせて決めます。「65W」表示でも2台同時だとノートPC側が45Wになる製品も。65W前後4機種の公式配分表で、同時充電の出力差とケーブルの選び方を比較。</p></a></section></main>
 <footer>© 2026 QOLガジェット研究所 ／ 運営：電脳アリス（AIを活用して運営しています）<br>当サイトは楽天アフィリエイトなどのアフィリエイト広告を利用しています。</footer>
 </body>
 </html>

diff --git a/docs/posts/usb-c-charger-guide.html b/docs/posts/usb-c-charger-guide.html
@@ -3,12 +3,12 @@
 <head>
 <meta charset="utf-8">
 <meta name="viewport" content="width=device-width,initial-scale=1">
-<title>USB-C充電器は何W必要？ノートPCとスマホ同時充電の選び方｜配分表・ケーブル・PD/PPSを解説</title>
-<meta name="description" content="USB-C充電器は、いちばん電力を使う機器に合わせてW数を決め、USB PD対応・ポートごとの配分表・ケーブルの対応W数を確認すれば大きく外しません。65W前後4機種の公式仕様で、ノートPCとスマホ同時充電時の出力差も比較。">
+<title>USB-C充電器は何W必要？PCとスマホ同時充電は「65Wでも45W」に注意｜4機種の配分表｜QOLガジェット研究所</title>
+<meta name="description" content="USB-C充電器のW数は、いちばん電力を使う機器に合わせて決めます。「65W」表示でも2台同時だとノートPC側が45Wになる製品も。65W前後4機種の公式配分表で、同時充電の出力差とケーブルの選び方を比較。">
 <link rel="canonical" href="https://zaq-master.github.io/ai-lab/posts/usb-c-charger-guide.html">
 <link rel="alternate" type="application/rss+xml" title="QOLガジェット研究所（RSS）" href="https://zaq-master.github.io/ai-lab/feed.xml">
-<meta property="og:title" content="USB-C充電器は何W必要？ノートPCとスマホ同時充電の選び方｜配分表・ケーブル・PD/PPSを解説">
-<meta property="og:description" content="USB-C充電器は、いちばん電力を使う機器に合わせてW数を決め、USB PD対応・ポートごとの配分表・ケーブルの対応W数を確認すれば大きく外しません。65W前後4機種の公式仕様で、ノートPCとスマホ同時充電時の出力差も比較。">
+<meta property="og:title" content="USB-C充電器は何W必要？PCとスマホ同時充電は「65Wでも45W」に注意｜4機種の配分表">
+<meta property="og:description" content="USB-C充電器のW数は、いちばん電力を使う機器に合わせて決めます。「65W」表示でも2台同時だとノートPC側が45Wになる製品も。65W前後4機種の公式配分表で、同時充電の出力差とケーブルの選び方を比較。">
 <meta property="og:url" content="https://zaq-master.github.io/ai-lab/posts/usb-c-charger-guide.html">
 <meta property="og:type" content="article">
 <meta property="og:site_name" content="QOLガジェット研究所">
@@ -19,8 +19,8 @@
 <meta name="twitter:image" content="https://zaq-master.github.io/ai-lab/og/usb-c-charger-guide.png">
 <meta name="twitter:card" content="summary_large_image">
 <meta name="twitter:site" content="@qol_gadget_life">
-<script type="application/ld+json">{"@context": "https://schema.org", "@type": "Article", "headline": "USB-C充電器は何W必要？ノートPCとスマホ同時充電の選び方｜配分表・ケーブル・PD/PPSを解説", "description": "USB-C充電器は、いちばん電力を使う機器に合わせてW数を決め、USB PD対応・ポートごとの配分表・ケーブルの対応W数を確認すれば大きく外しません。65W前後4機種の公式仕様で、ノートPCとスマホ同時充電時の出力差も比較。", "datePublished": "2026-11-02", "dateModified": "2026-11-20", "mainEntityOfPage": "https://zaq-master.github.io/ai-lab/posts/usb-c-charger-guide.html", "author": {"@type": "Organization", "name": "QOLガジェット研究所（AI運営）", "url": "https://zaq-master.github.io/ai-lab/"}, "publisher": {"@type": "Organization", "name": "QOLガジェット研究所（AI運営）", "url": "https://zaq-master.github.io/ai-lab/"}, "inLanguage": "ja", "image": "https://zaq-master.github.io/ai-lab/og/usb-c-charger-guide.png"}</script>
-<script type="application/ld+json">{"@context": "https://schema.org", "@type": "BreadcrumbList", "itemListElement": [{"@type": "ListItem", "position": 1, "name": "トップ", "item": "https://zaq-master.github.io/ai-lab/"}, {"@type": "ListItem", "position": 2, "name": "USB-C充電器は何W必要？ノートPCとスマホ同時充電の選び方｜配分表・ケーブル・PD/PPSを解説", "item": "https://zaq-master.github.io/ai-lab/posts/usb-c-charger-guide.html"}]}</script>
+<script type="application/ld+json">{"@context": "https://schema.org", "@type": "Article", "headline": "USB-C充電器は何W必要？PCとスマホ同時充電は「65Wでも45W」に注意｜4機種の配分表", "description": "USB-C充電器のW数は、いちばん電力を使う機器に合わせて決めます。「65W」表示でも2台同時だとノートPC側が45Wになる製品も。65W前後4機種の公式配分表で、同時充電の出力差とケーブルの選び方を比較。", "datePublished": "2026-11-02", "dateModified": "2026-11-20", "mainEntityOfPage": "https://zaq-master.github.io/ai-lab/posts/usb-c-charger-guide.html", "author": {"@type": "Organization", "name": "QOLガジェット研究所（AI運営）", "url": "https://zaq-master.github.io/ai-lab/"}, "publisher": {"@type": "Organization", "name": "QOLガジェット研究所（AI運営）", "url": "https://zaq-master.github.io/ai-lab/"}, "inLanguage": "ja", "image": "https://zaq-master.github.io/ai-lab/og/usb-c-charger-guide.png"}</script>
+<script type="application/ld+json">{"@context": "https://schema.org", "@type": "BreadcrumbList", "itemListElement": [{"@type": "ListItem", "position": 1, "name": "トップ", "item": "https://zaq-master.github.io/ai-lab/"}, {"@type": "ListItem", "position": 2, "name": "USB-C充電器は何W必要？PCとスマホ同時充電は「65Wでも45W」に注意｜4機種の配分表", "item": "https://zaq-master.github.io/ai-lab/posts/usb-c-charger-guide.html"}]}</script>
 
 <link rel="preconnect" href="https://fonts.googleapis.com">
 <link href="https://fonts.googleapis.com/css2?family=Noto+Sans+JP:wght@400;700&display=swap" rel="stylesheet">
@@ -67,7 +67,7 @@ article input[type=radio],article input[type=checkbox]{width:22px;height:22px;ma
 <body>
 <header><a class="logo" href="../index.html">QOLガジェット研究所</a>
 <nav><a href="../about.html">運営者・方針</a><a href="https://x.com/qol_gadget_life">X</a><a href="https://www.instagram.com/qol_gadget_life/">Instagram</a><a href="https://note.com/zaqmaster">note</a></nav></header>
-<main><article><img class="eye" src="usb-c-charger-guide.svg" alt="USB-C充電器は何W必要？ノートPCとスマホ同時充電の選び方｜配分表・ケーブル・PD/PPSを解説" width="1200" height="630"><p class="meta">2026-11-02・充電・電源</p><h1>USB-C充電器は何W必要？ノートPCとスマホ同時充電の選び方｜配分表・ケーブル・PD/PPSを解説</h1><p class="pr">※本記事はアフィリエイト広告を含みます。内容はAI（電脳アリス）が公開情報をもとに作成しています。</p><p class="sale-bar"><a href="rakuten-blackfriday-memo.html"><b>楽天ブラックフライデー開催中</b><span>11/25 1:59まで。電気代で選ぶ冬ガジェットの買い物メモ【PR】 →</span></a></p><p><strong>結論：いちばん電力を使う機器に合わせてW数を決め、「USB PD対応」「ポートごとの配分表」「ケーブルの対応W数」の3つを確認すれば大きく外しません。</strong></p>
+<main><article><img class="eye" src="usb-c-charger-guide.svg" alt="USB-C充電器は何W必要？PCとスマホ同時充電は「65Wでも45W」に注意｜4機種の配分表" width="1200" height="630"><p class="meta">2026-11-02・充電・電源</p><h1>USB-C充電器は何W必要？PCとスマホ同時充電は「65Wでも45W」に注意｜4機種の配分表</h1><p class="pr">※本記事はアフィリエイト広告を含みます。内容はAI（電脳アリス）が公開情報をもとに作成しています。</p><p class="sale-bar"><a href="rakuten-blackfriday-memo.html"><b>楽天ブラックフライデー開催中</b><span>11/25 1:59まで。電気代で選ぶ冬ガジェットの買い物メモ【PR】 →</span></a></p><p><strong>結論：いちばん電力を使う機器に合わせてW数を決め、「USB PD対応」「ポートごとの配分表」「ケーブルの対応W数」の3つを確認すれば大きく外しません。</strong></p>
 <p>充電器を何個もコンセントに挿していませんか？USB-C充電器を1台うまく選ぶと、机まわりも旅行の荷物もすっきりします。ここでは、買う前に見るべきポイントを順番にまとめ、後半でよくある疑問にQ&amp;A形式で答えます。</p>
 <p>※この記事はAI（電脳アリス）が規格の公開情報をもとにまとめたもので、実機レビューではありません。個別の製品の数値は各商品ページ・メーカー公式で確認してください。</p>
 <p><a href="#pr-osusume">▶ おすすめの探し方（PR）へ</a></p>

diff --git a/docs/posts/mobile-battery-jikan-calculator.html b/docs/posts/mobile-battery-jikan-calculator.html
@@ -3,11 +3,11 @@
 <head>
 <meta charset="utf-8">
 <meta name="viewport" content="width=device-width,initial-scale=1">
-<title>モバイルバッテリーで何時間もつ？計算ツール｜mAh→Wh早見表と電熱ベストの目安｜QOLガジェット研究所</title>
+<title>モバイルバッテリーで何時間もつ？10000mAh・10Wで約3〜3.5時間｜計算ツールと早見表｜QOLガジェット研究所</title>
 <meta name="description" content="モバイルバッテリーの容量（mAh）と機器のW数で、電熱ベストなどが何時間もつかを計算できる無料ツール。10000mAh・10Wなら約3.0〜3.5時間。mAh→Wh換算と使える時間の早見表、飛行機に持ち込むときのWhの確かめ方も載せています。">
 <link rel="canonical" href="https://zaq-master.github.io/ai-lab/posts/mobile-battery-jikan-calculator.html">
 <link rel="alternate" type="application/rss+xml" title="QOLガジェット研究所（RSS）" href="https://zaq-master.github.io/ai-lab/feed.xml">
-<meta property="og:title" content="モバイルバッテリーで何時間もつ？計算ツール｜mAh→Wh早見表と電熱ベストの目安">
+<meta property="og:title" content="モバイルバッテリーで何時間もつ？10000mAh・10Wで約3〜3.5時間｜計算ツールと早見表">
 <meta property="og:description" content="モバイルバッテリーの容量（mAh）と機器のW数で、電熱ベストなどが何時間もつかを計算できる無料ツール。10000mAh・10Wなら約3.0〜3.5時間。mAh→Wh換算と使える時間の早見表、飛行機に持ち込むときのWhの確かめ方も載せています。">
 <meta property="og:url" content="https://zaq-master.github.io/ai-lab/posts/mobile-battery-jikan-calculator.html">
 <meta property="og:type" content="article">
@@ -19,8 +19,8 @@
 <meta name="twitter:image" content="https://zaq-master.github.io/ai-lab/og/mobile-battery-jikan-calculator.png">
 <meta name="twitter:card" content="summary_large_image">
 <meta name="twitter:site" content="@qol_gadget_life">
-<script type="application/ld+json">{"@context": "https://schema.org", "@type": "Article", "headline": "モバイルバッテリーで何時間もつ？計算ツール｜mAh→Wh早見表と電熱ベストの目安", "description": "モバイルバッテリーの容量（mAh）と機器のW数で、電熱ベストなどが何時間もつかを計算できる無料ツール。10000mAh・10Wなら約3.0〜3.5時間。mAh→Wh換算と使える時間の早見表、飛行機に持ち込むときのWhの確かめ方も載せています。", "datePublished": "2026-11-05", "dateModified": "2026-11-20", "mainEntityOfPage": "https://zaq-master.github.io/ai-lab/posts/mobile-battery-jikan-calculator.html", "author": {"@type": "Organization", "name": "QOLガジェット研究所（AI運営）", "url": "https://zaq-master.github.io/ai-lab/"}, "publisher": {"@type": "Organization", "name": "QOLガジェット研究所（AI運営）", "url": "https://zaq-master.github.io/ai-lab/"}, "inLanguage": "ja", "image": "https://zaq-master.github.io/ai-lab/og/mobile-battery-jikan-calculator.png"}</script>
-<script type="application/ld+json">{"@context": "https://schema.org", "@type": "BreadcrumbList", "itemListElement": [{"@type": "ListItem", "position": 1, "name": "トップ", "item": "https://zaq-master.github.io/ai-lab/"}, {"@type": "ListItem", "position": 2, "name": "モバイルバッテリーで何時間もつ？計算ツール｜mAh→Wh早見表と電熱ベストの目安", "item": "https://zaq-master.github.io/ai-lab/posts/mobile-battery-jikan-calculator.html"}]}</script>
+<script type="application/ld+json">{"@context": "https://schema.org", "@type": "Article", "headline": "モバイルバッテリーで何時間もつ？10000mAh・10Wで約3〜3.5時間｜計算ツールと早見表", "description": "モバイルバッテリーの容量（mAh）と機器のW数で、電熱ベストなどが何時間もつかを計算できる無料ツール。10000mAh・10Wなら約3.0〜3.5時間。mAh→Wh換算と使える時間の早見表、飛行機に持ち込むときのWhの確かめ方も載せています。", "datePublished": "2026-11-05", "dateModified": "2026-11-20", "mainEntityOfPage": "https://zaq-master.github.io/ai-lab/posts/mobile-battery-jikan-calculator.html", "author": {"@type": "Organization", "name": "QOLガジェット研究所（AI運営）", "url": "https://zaq-master.github.io/ai-lab/"}, "publisher": {"@type": "Organization", "name": "QOLガジェット研究所（AI運営）", "url": "https://zaq-master.github.io/ai-lab/"}, "inLanguage": "ja", "image": "https://zaq-master.github.io/ai-lab/og/mobile-battery-jikan-calculator.png"}</script>
+<script type="application/ld+json">{"@context": "https://schema.org", "@type": "BreadcrumbList", "itemListElement": [{"@type": "ListItem", "position": 1, "name": "トップ", "item": "https://zaq-master.github.io/ai-lab/"}, {"@type": "ListItem", "position": 2, "name": "モバイルバッテリーで何時間もつ？10000mAh・10Wで約3〜3.5時間｜計算ツールと早見表", "item": "https://zaq-master.github.io/ai-lab/posts/mobile-battery-jikan-calculator.html"}]}</script>
 
 <link rel="preconnect" href="https://fonts.googleapis.com">
 <link href="https://fonts.googleapis.com/css2?family=Noto+Sans+JP:wght@400;700&display=swap" rel="stylesheet">
@@ -67,7 +67,7 @@ article input[type=radio],article input[type=checkbox]{width:22px;height:22px;ma
 <body>
 <header><a class="logo" href="../index.html">QOLガジェット研究所</a>
 <nav><a href="../about.html">運営者・方針</a><a href="https://x.com/qol_gadget_life">X</a><a href="https://www.instagram.com/qol_gadget_life/">Instagram</a><a href="https://note.com/zaqmaster">note</a></nav></header>
-<main><article><img class="eye" src="mobile-battery-jikan-calculator.svg" alt="モバイルバッテリーで何時間もつ？計算ツール｜mAh→Wh早見表と電熱ベストの目安" width="1200" height="630"><p class="meta">2026-11-05・季節家電</p><h1>モバイルバッテリーで何時間もつ？計算ツール｜mAh→Wh早見表と電熱ベストの目安</h1><p class="pr">※本記事はアフィリエイト広告を含みます。内容はAI（電脳アリス）が公開情報をもとに作成しています。</p><p class="sale-bar"><a href="rakuten-blackfriday-memo.html"><b>楽天ブラックフライデー開催中</b><span>11/25 1:59まで。電気代で選ぶ冬ガジェットの買い物メモ【PR】 →</span></a></p><p><span class="badge">PR</span> ※このページには広告リンク（商品枠）が含まれます。</p>
+<main><article><img class="eye" src="mobile-battery-jikan-calculator.svg" alt="モバイルバッテリーで何時間もつ？10000mAh・10Wで約3〜3.5時間｜計算ツールと早見表" width="1200" height="630"><p class="meta">2026-11-05・季節家電</p><h1>モバイルバッテリーで何時間もつ？10000mAh・10Wで約3〜3.5時間｜計算ツールと早見表</h1><p class="pr">※本記事はアフィリエイト広告を含みます。内容はAI（電脳アリス）が公開情報をもとに作成しています。</p><p class="sale-bar"><a href="rakuten-blackfriday-memo.html"><b>楽天ブラックフライデー開催中</b><span>11/25 1:59まで。電気代で選ぶ冬ガジェットの買い物メモ【PR】 →</span></a></p><p><span class="badge">PR</span> ※このページには広告リンク（商品枠）が含まれます。</p>
 <p><strong>結論：ふつうの「10000mAh」表示のモバイルバッテリーで使える電力の目安は約30〜35Wh（計算上の目安）。10Wの機器なら約3.0〜3.5時間が目安です。</strong>容量別・W数別の目安は<a href="#hayami">下の早見表</a>にまとめました。</p>
 <p>「10000mAhのモバイルバッテリーで、電熱ベストは何時間もつ？」を<strong>自分の機器の数字で</strong>確かめるための<strong>無料の計算ツール</strong>です。バッテリーの<strong>容量（mAh）</strong>と、機器の<strong>消費電力（W）</strong>を入れると、<strong>使える時間の目安</strong>と、<strong>バッテリーを満充電する1回の電気代の目安</strong>を出します。</p>
 <p>※このページはAI（電脳アリス）が作成した計算ツールで、特定製品の実機レビューではありません。入力欄の初期値は<strong>計算用に仮定した「例」の数値</strong>です。お手持ち・購入候補の製品の消費電力・容量は、本体の表示・取扱説明書・商品ページで確認して入れ替えてください。結果は目安です。</p>

diff --git a/ops/backlog.md b/ops/backlog.md
@@ -27,7 +27,7 @@
 | 5 | **新記事なし**。11/23公開の「暖房は何℃から」を最終準備：日付・ファイル名・楽天キーワードを確認し、試しビルド＋content_guard で表示を点検（公開はしない） | 11:00 | 月曜11:00に迷わず出すため | ✅ 11:10 試しビルド・表示点検・内部リンク7本・楽天2枠すべてOK（未公開） |
 | 6 | check_affiliate＋BF特集ページのボタン・PR表記・期限表示（BF最後の週末） | 12:00 | 収益導線 | ✅ 12:08 146個・BF10個すべて正常、PR表記・期限表示OK |
 | 7 | note：新原稿なし。未投稿原稿の数字を now_numbers.sh で最新化できるか確認 | 14:00 | 古い数字を出さない | 未 |
-| 8 | SEO：USB-C充電器・モバイルバッテリー記事のタイトル・説明文改善＋部屋干し除湿機のタイトル短縮（11/20の積み残し） | 15:00 | 入口 | 未 |
+| 8 | SEO：USB-C充電器・モバイルバッテリー記事のタイトル・説明文改善＋部屋干し除湿機のタイトル短縮（11/20の積み残し） | 15:00 | 入口 | ✅ 15:12 2本のタイトルに答えの数字を入れた（除湿機は11/20済み） |
 | 9 | 分析：定時タスクの状態／定時ビルドの記録／数字 | 17:00 | 仮説検証 | 未 |
 | 10 | 12月ネタの下書き1本（09:00の調査から一番需要が近いもの。公式で確かめられる事実だけ） | 18:00 | 新記事枠は使わず下書きで準備 | 未 |
 | 11 | 日報・metrics（11/21行）＋ OWNER_STATUS.md 上書き | 21:00 | 決定3 | 未 |

diff --git a/ops/log/2026-11-21.md b/ops/log/2026-11-21.md
@@ -96,3 +96,10 @@
 - 分かったこと：BF締切（11/25 1:59）前に番外編③を出せるPC回は残り**6回**（11/22〜24の2時・8時）。過ぎたら出さず会議第3回へ
 - Slackは接続が途中のまま（#note・#daily-report投稿、オーナーの書き込み確認できず）、Stripeはつなぎ直しが必要 → 売上は未確認
 - 次：15:00 SEO改善回
+
+## 15:06（11/21）SEO改善回（11/20の積み残し）
+- ✅ USB-C充電器記事：タイトル50字→44字。中身の一番の発見「65W表示でも2台同時だとノートPC側は45Wの製品も」を前に出し、説明文も同じ内容に書き直し（本文・数字は変更なし、記事内の表3で確認済み）
+- ✅ モバイルバッテリー計算ツール：タイトルに答え「10000mAh・10Wで約3〜3.5時間」を入れた（本文の結論と同じ値）。部屋干し除湿機の短縮は11/20に完了済み
+- ✅ build 34記事・content_guard OK・表示チェック 問題0件
+- Slackは今回も接続が途中のまま → #daily-report報告・オーナーの書き込み確認できず
+- 次：17:00 分析回

diff --git a/ops/decisions.md b/ops/decisions.md
@@ -264,3 +264,4 @@
 - 2026-11-21 10:00深掘り：新記事枠は使い切りのため公開せず、12月ネタ②③（加湿器クエン酸・結露取り道具）を監査済み下書きで保管。定時の制作回と重ならないよう09:00の年末年始ネタには手を付けない
 - 2026-11-21 13:00深掘り：無人の回でも「先にWebSearchで同じURLを検索結果に出してからWebFetch」すれば公式ページを開けると判明（飛行機の公式9ページ・ダイニチ公式記事を照合）。今後の公式照合はこの手順で行い、「無人では開けない」前提を外す
 - 2026-11-21 13:00深掘り：飛行機のモバイルバッテリー記事は照合で不一致0のため公開可。新記事は週2本までの決定どおり、来週枠で11/24公開（11/23は暖房記事）
+- 2026-11-21 15:10 USB-C充電器・モバイルバッテリー記事のタイトルに記事の答え（65Wでも45W／約3〜3.5時間）を入れた：検索結果で答えが見えるほうがクリックされやすいため

diff --git a/content/posts/usb-c-charger-guide.md b/content/posts/usb-c-charger-guide.md
@@ -1,7 +1,7 @@
 ---
-title: USB-C充電器は何W必要？ノートPCとスマホ同時充電の選び方｜配分表・ケーブル・PD/PPSを解説
+title: USB-C充電器は何W必要？PCとスマホ同時充電は「65Wでも45W」に注意｜4機種の配分表
 date: 2026-11-02
-description: USB-C充電器は、いちばん電力を使う機器に合わせてW数を決め、USB PD対応・ポートごとの配分表・ケーブルの対応W数を確認すれば大きく外しません。65W前後4機種の公式仕様で、ノートPCとスマホ同時充電時の出力差も比較。
+description: USB-C充電器のW数は、いちばん電力を使う機器に合わせて決めます。「65W」表示でも2台同時だとノートPC側が45Wになる製品も。65W前後4機種の公式配分表で、同時充電の出力差とケーブルの選び方を比較。
 category: 充電・電源
 updated: 2026-11-20
 ---

diff --git a/content/posts/mobile-battery-jikan-calculator.md b/content/posts/mobile-battery-jikan-calculator.md
@@ -1,5 +1,5 @@
 ---
-title: モバイルバッテリーで何時間もつ？計算ツール｜mAh→Wh早見表と電熱ベストの目安
+title: モバイルバッテリーで何時間もつ？10000mAh・10Wで約3〜3.5時間｜計算ツールと早見表
 date: 2026-11-05
 updated: 2026-11-20
 description: モバイルバッテリーの容量（mAh）と機器のW数で、電熱ベストなどが何時間もつかを計算できる無料ツール。10000mAh・10Wなら約3.0〜3.5時間。mAh→Wh換算と使える時間の早見表、飛行機に持ち込むときのWhの確かめ方も載せています。
